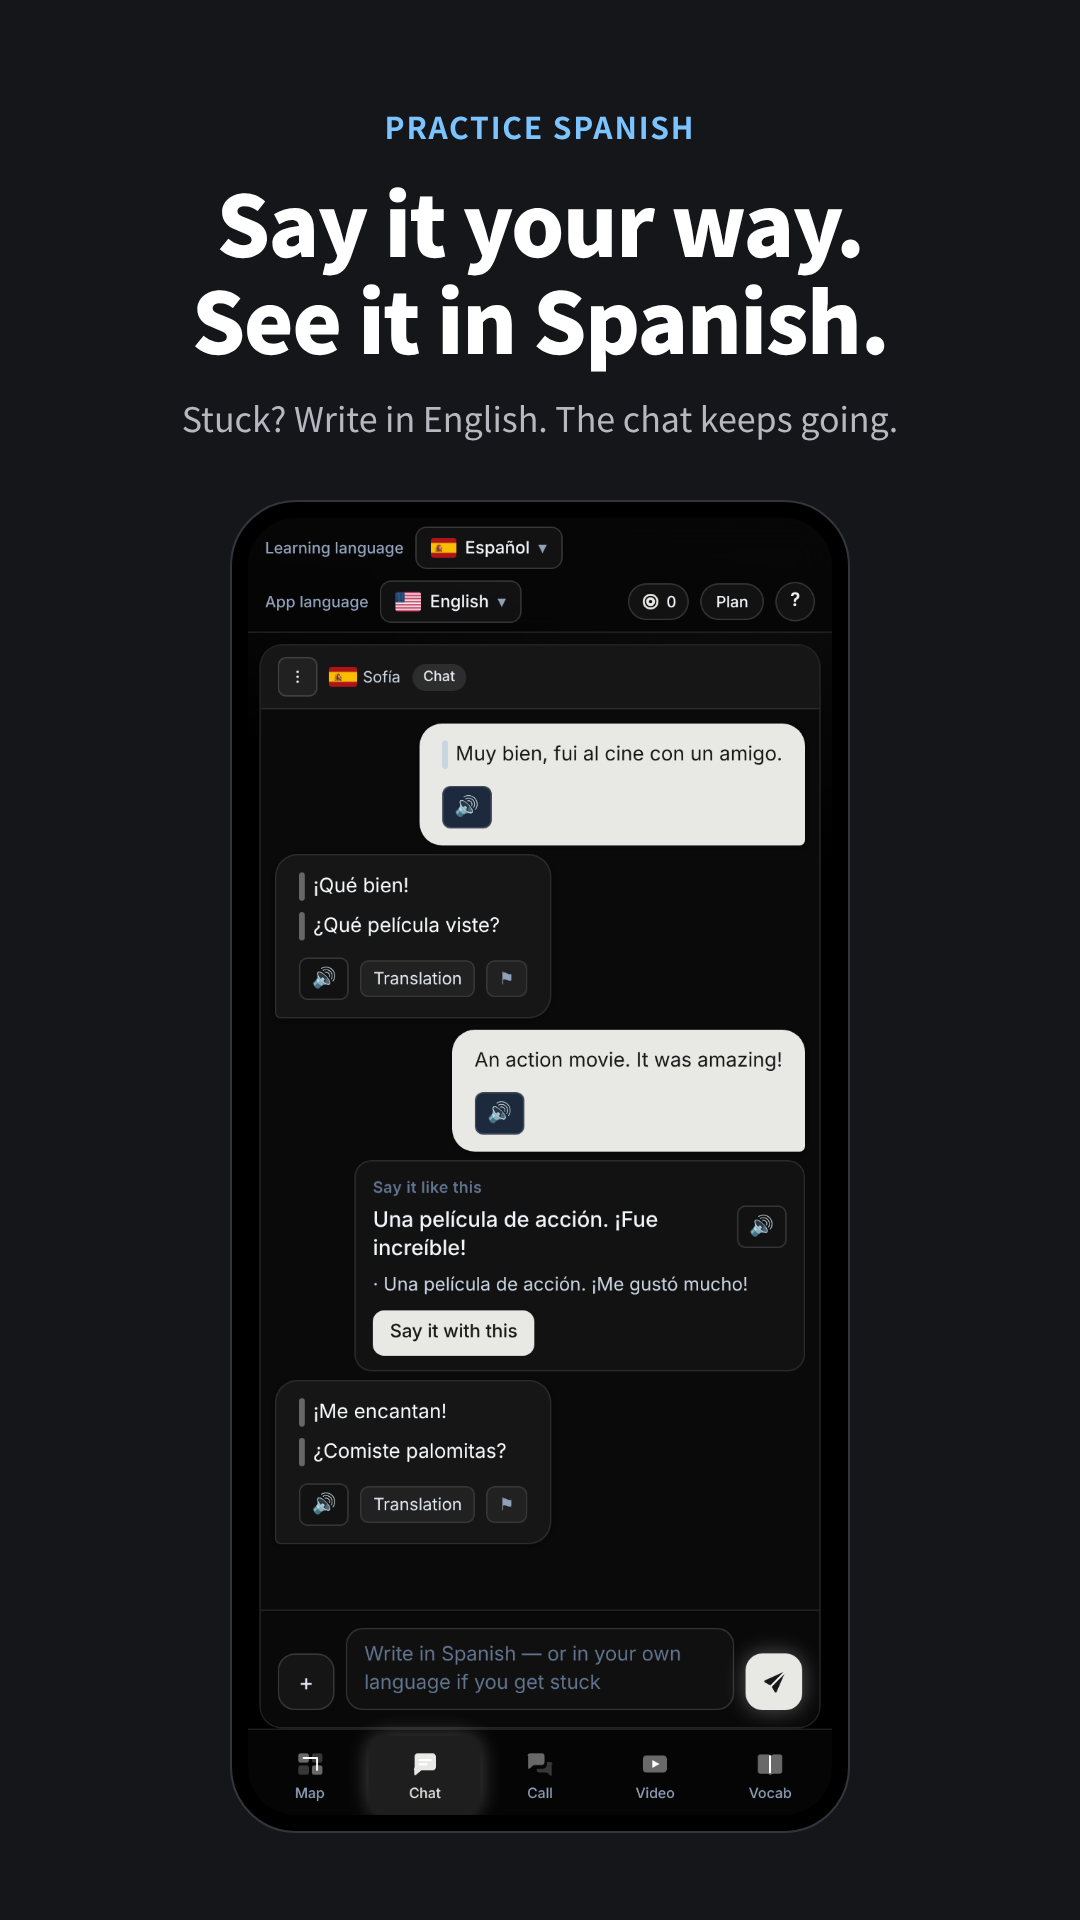
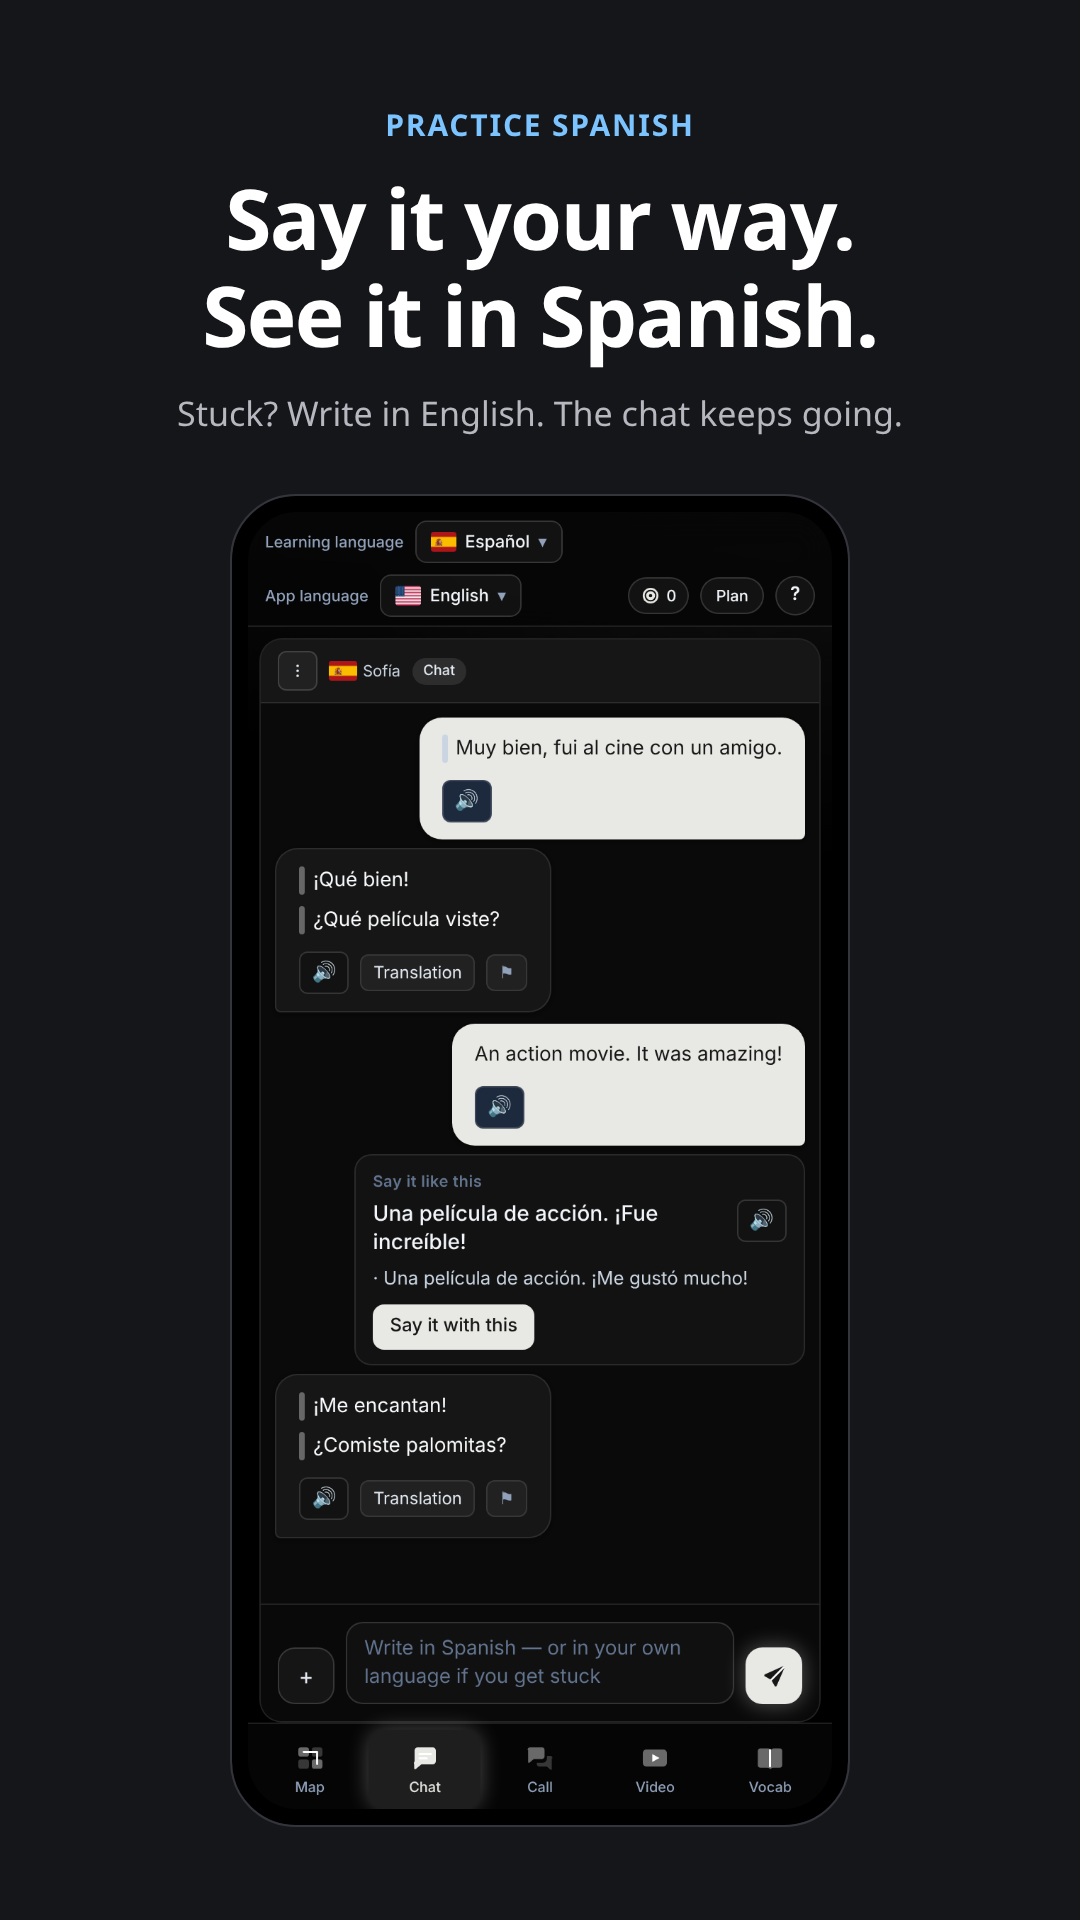
Add the India set to the store screenshots and note the custom listings
The Play listing now has custom store listings for Korea, China, Japan,
Spain and India beside the default English one. India gets its own set:
the app in Hindi, practising English, with a study map recorded once from
the deployed API. Every set is retaken with the Latin and Devanagari Noto
fonts installed, as CI installs them. Custom listings are outside fastlane,
so STORE_AUTOMATION says which folder goes to which and that they are
uploaded by hand.

Claude-Session: https://claude.ai/code/session_017XrJ5zrBQ19BF9Rks6f2Hd

diff --git a/fastlane/STORE_AUTOMATION.md b/fastlane/STORE_AUTOMATION.md
@@ -95,9 +95,13 @@ Claude Code ──(출시 노트·등록정보 수정)──▶ PR ──(검토
 - **결과**: `fastlane/metadata/android/<언어>/images/phoneScreenshots/NN-<장면>.png`
   가 바뀌면 PR이 열립니다. PR의 Files changed에서 이미지를 보고 병합하면 Play에
   올라갑니다.
-- **지금 있는 것**: 영어·스페인어·일본어·한국어·중국어 5개 언어 × 3장면(지도, 채팅 표현 카드,
+- **지금 있는 것**: 영어·스페인어·일본어·한국어·중국어·힌디어 6개 언어 × 3장면(지도, 채팅 표현 카드,
   문장 빠른 질문). 영어 사용자에게는 스페인어를 배우는 장면, 나머지는 영어를 배우는 장면을
   각자의 앱 언어로 보여줍니다. 어떤 장면을 찍을지는 `PRODUCT.md` "대표 장면"을 따릅니다.
+- **국가별 맞춤 스토어 등록정보**: Play Console에 기본(영어) + 한국·중국·일본·스페인·인도 맞춤 등록정보가
+  있습니다. 맞춤 등록정보는 fastlane으로 올라가지 않으므로, 아래 폴더의 이미지를 Console에서 직접 올립니다.
+  한국 `ko-KR`, 일본 `ja-JP`, 중국 `zh-CN`, 스페인 `es-ES`, 인도 `hi-IN`(힌디어 앱 화면, 영어 학습).
+  이미지가 바뀌는 PR을 병합하면 맞춤 등록정보 쪽도 같이 바꿔야 합니다.
 - **장면 추가**: `store-shots/scenes.mjs`에 장면을 추가하고, 각 언어 JSON의 `scenes`에 헤드라인과
   대화 문장을 넣습니다. 버튼은 앱의 실제 문구(`src/lib/copy.ts`)로 찾기 때문에 언어마다 따로
   고칠 필요가 없습니다.

diff --git a/hub/roles/store.md b/hub/roles/store.md
@@ -33,5 +33,7 @@
   환경, "Play: pull listing" 실행. 지금 `fastlane/metadata/android/`에는 en-US 스크린샷만 있고
   다른 언어 등록정보·출시 노트는 아직 없다. pull listing 전에는 문구를 새로 쓰지 않는다.
 - 2.62~2.64는 사용자가 PC에서 직접 빌드해 올렸고 출시 노트 파일은 저장소에 없다.
-- 스토어 스크린샷: en·es·ja·ko·zh × 지도·채팅·빠른 질문(PR). 다른 9개 언어와 미션 장면은 아직.
+- 스토어 스크린샷: en·es·ja·ko·zh·hi × 지도·채팅·빠른 질문(PR #5). 다른 8개 언어와 미션 장면은 아직.
+- Play 맞춤 스토어 등록정보(사용자가 만듦): 기본 영어 + 한국·중국·일본·스페인·인도. 맞춤 등록정보 이미지는 Console에서
+  직접 올림(fastlane 밖) — 스크린샷이 바뀌면 사용자에게 알릴 것. 중국은 Play가 본토에서 안 돼 대만·홍콩(번체) 검토 필요.
   지도는 `store-shots/fixtures/`에 녹화한 지도로 찍으니, 지도 화면이 바뀌어도 그대로 따라감.

diff --git a/hub/log/2026-10.md b/hub/log/2026-10.md
@@ -96,3 +96,10 @@
   재로딩하면 dev 배지가 다시 보이던 것도 고침. 15장 모두 눈으로 확인.
 - 남긴 일: 나머지 9개 언어, 미션 장면(2.65). 문구는 사용자가 PR에서 확인.
 - 커밋/브랜치: store-shots-whatsnew (PR #5)
+
+## 2026-10-10 · store · 국가별 맞춤 등록정보용 스크린샷 (인도 추가)
+- 한 일: 사용자가 Play에 기본 영어 + 한국·중국·일본·스페인·인도 맞춤 등록정보를 만듦. 인도용 hi-IN(힌디어 앱, 영어 학습) 세트를
+  추가하고 지도 1장을 운영 API로 녹화. 힌디어 글꼴(fonts-noto-core) 설치 뒤 6개 세트 18장을 다시 찍어 모두 확인,
+  국가별 폴더 zip으로 전달(맞춤 등록정보는 Console에서 직접 업로드).
+- 남긴 일: 중국 맞춤 등록정보는 본토에서 Play가 안 돼 효과 없음 — 대만·홍콩(번체 zh-TW) 여부 사용자 결정.
+- 커밋/브랜치: store-shots-whatsnew (PR #5)
